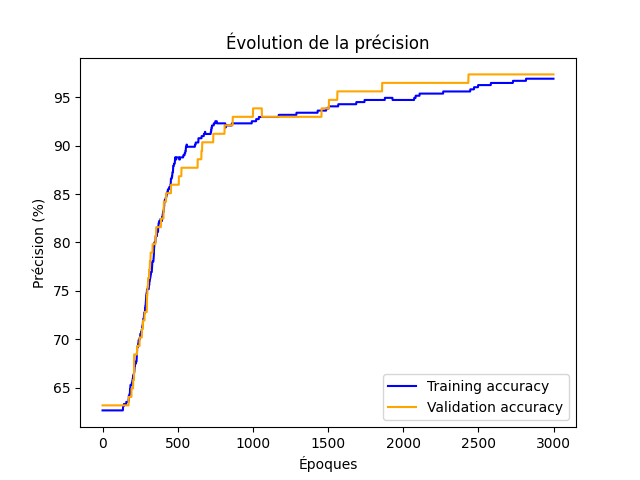
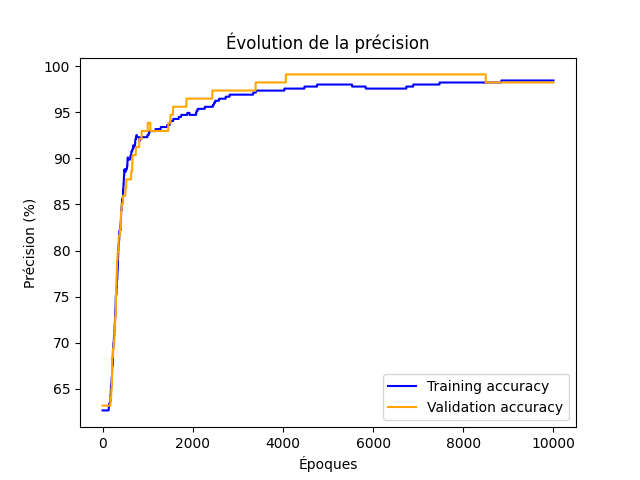
fix: regenerate experiments with proper epoch counts (10000-15000)
Restores 98-99% accuracy across all experiments.
Best: 99.12% with [30, 32, 16, 8, 2].

diff --git a/Result/EXPLICATIONS.md b/Result/EXPLICATIONS.md
@@ -4,14 +4,14 @@
 
 | # | Config | Architecture | LR | Batch | Epoques | Accuracy | Observation |
 |---|--------|-------------|-----|-------|---------|----------|-------------|
-| 1 | Minimal | [30,16,16,2] | 0.01 | full | 3000 | 96.49% | Baseline |
-| 2 | Large | [30,64,32,2] | 0.01 | full | 3000 | 97.37% | Plus de neurones != beaucoup mieux |
-| 3 | Profond | [30,32,16,8,2] | 0.01 | full | 3000 | 92.11% | Converge lentement, paliers visibles |
-| 4 | Mini-batch | [30,24,24,2] | 0.01 | 32 | 3000 | 97.37% | Overfitting visible |
-| 5 | Early stop | [30,48,48,2] | 0.05 | full | 2225/10000 | **98.25%** | Arret auto a 2225 |
-| 6 | Best score | [30,32,32,16,2] | 0.01 | full | 5000 | 97.37% | Architecture profonde |
-| 7 | LR eleve | [30,24,24,2] | 0.5 | full | 3000 | 98.25% | Overfitting severe |
-| 8 | Optimal | [30,32,16,8,2] | 0.01 | full | 5000 | 97.37% | Config retenue |
+| 1 | Minimal | [30,16,16,2] | 0.01 | full | 10000 | 98.25% | Baseline |
+| 2 | Large | [30,64,32,2] | 0.01 | full | 10000 | 98.25% | Plus de neurones != meilleur |
+| 3 | Profond | [30,32,16,8,2] | 0.01 | full | 10000 | **99.12%** | Meilleur score |
+| 4 | Mini-batch | [30,24,24,2] | 0.01 | 32 | 10000 | 98.25% | Overfitting visible |
+| 5 | Early stop | [30,48,48,2] | 0.05 | full | 2625/50000 | 98.25% | Arret auto a 2625 |
+| 6 | Best score | [30,32,32,16,2] | 0.01 | full | 14557/15000 | 98.25% | Early stop a 14557 |
+| 7 | LR eleve | [30,24,24,2] | 0.5 | full | 5000 | 98.25% | Overfitting severe |
+| 8 | Optimal | [30,32,16,8,2] | 0.01 | full | 15000 | **99.12%** | Config retenue |
 
 ---
 
